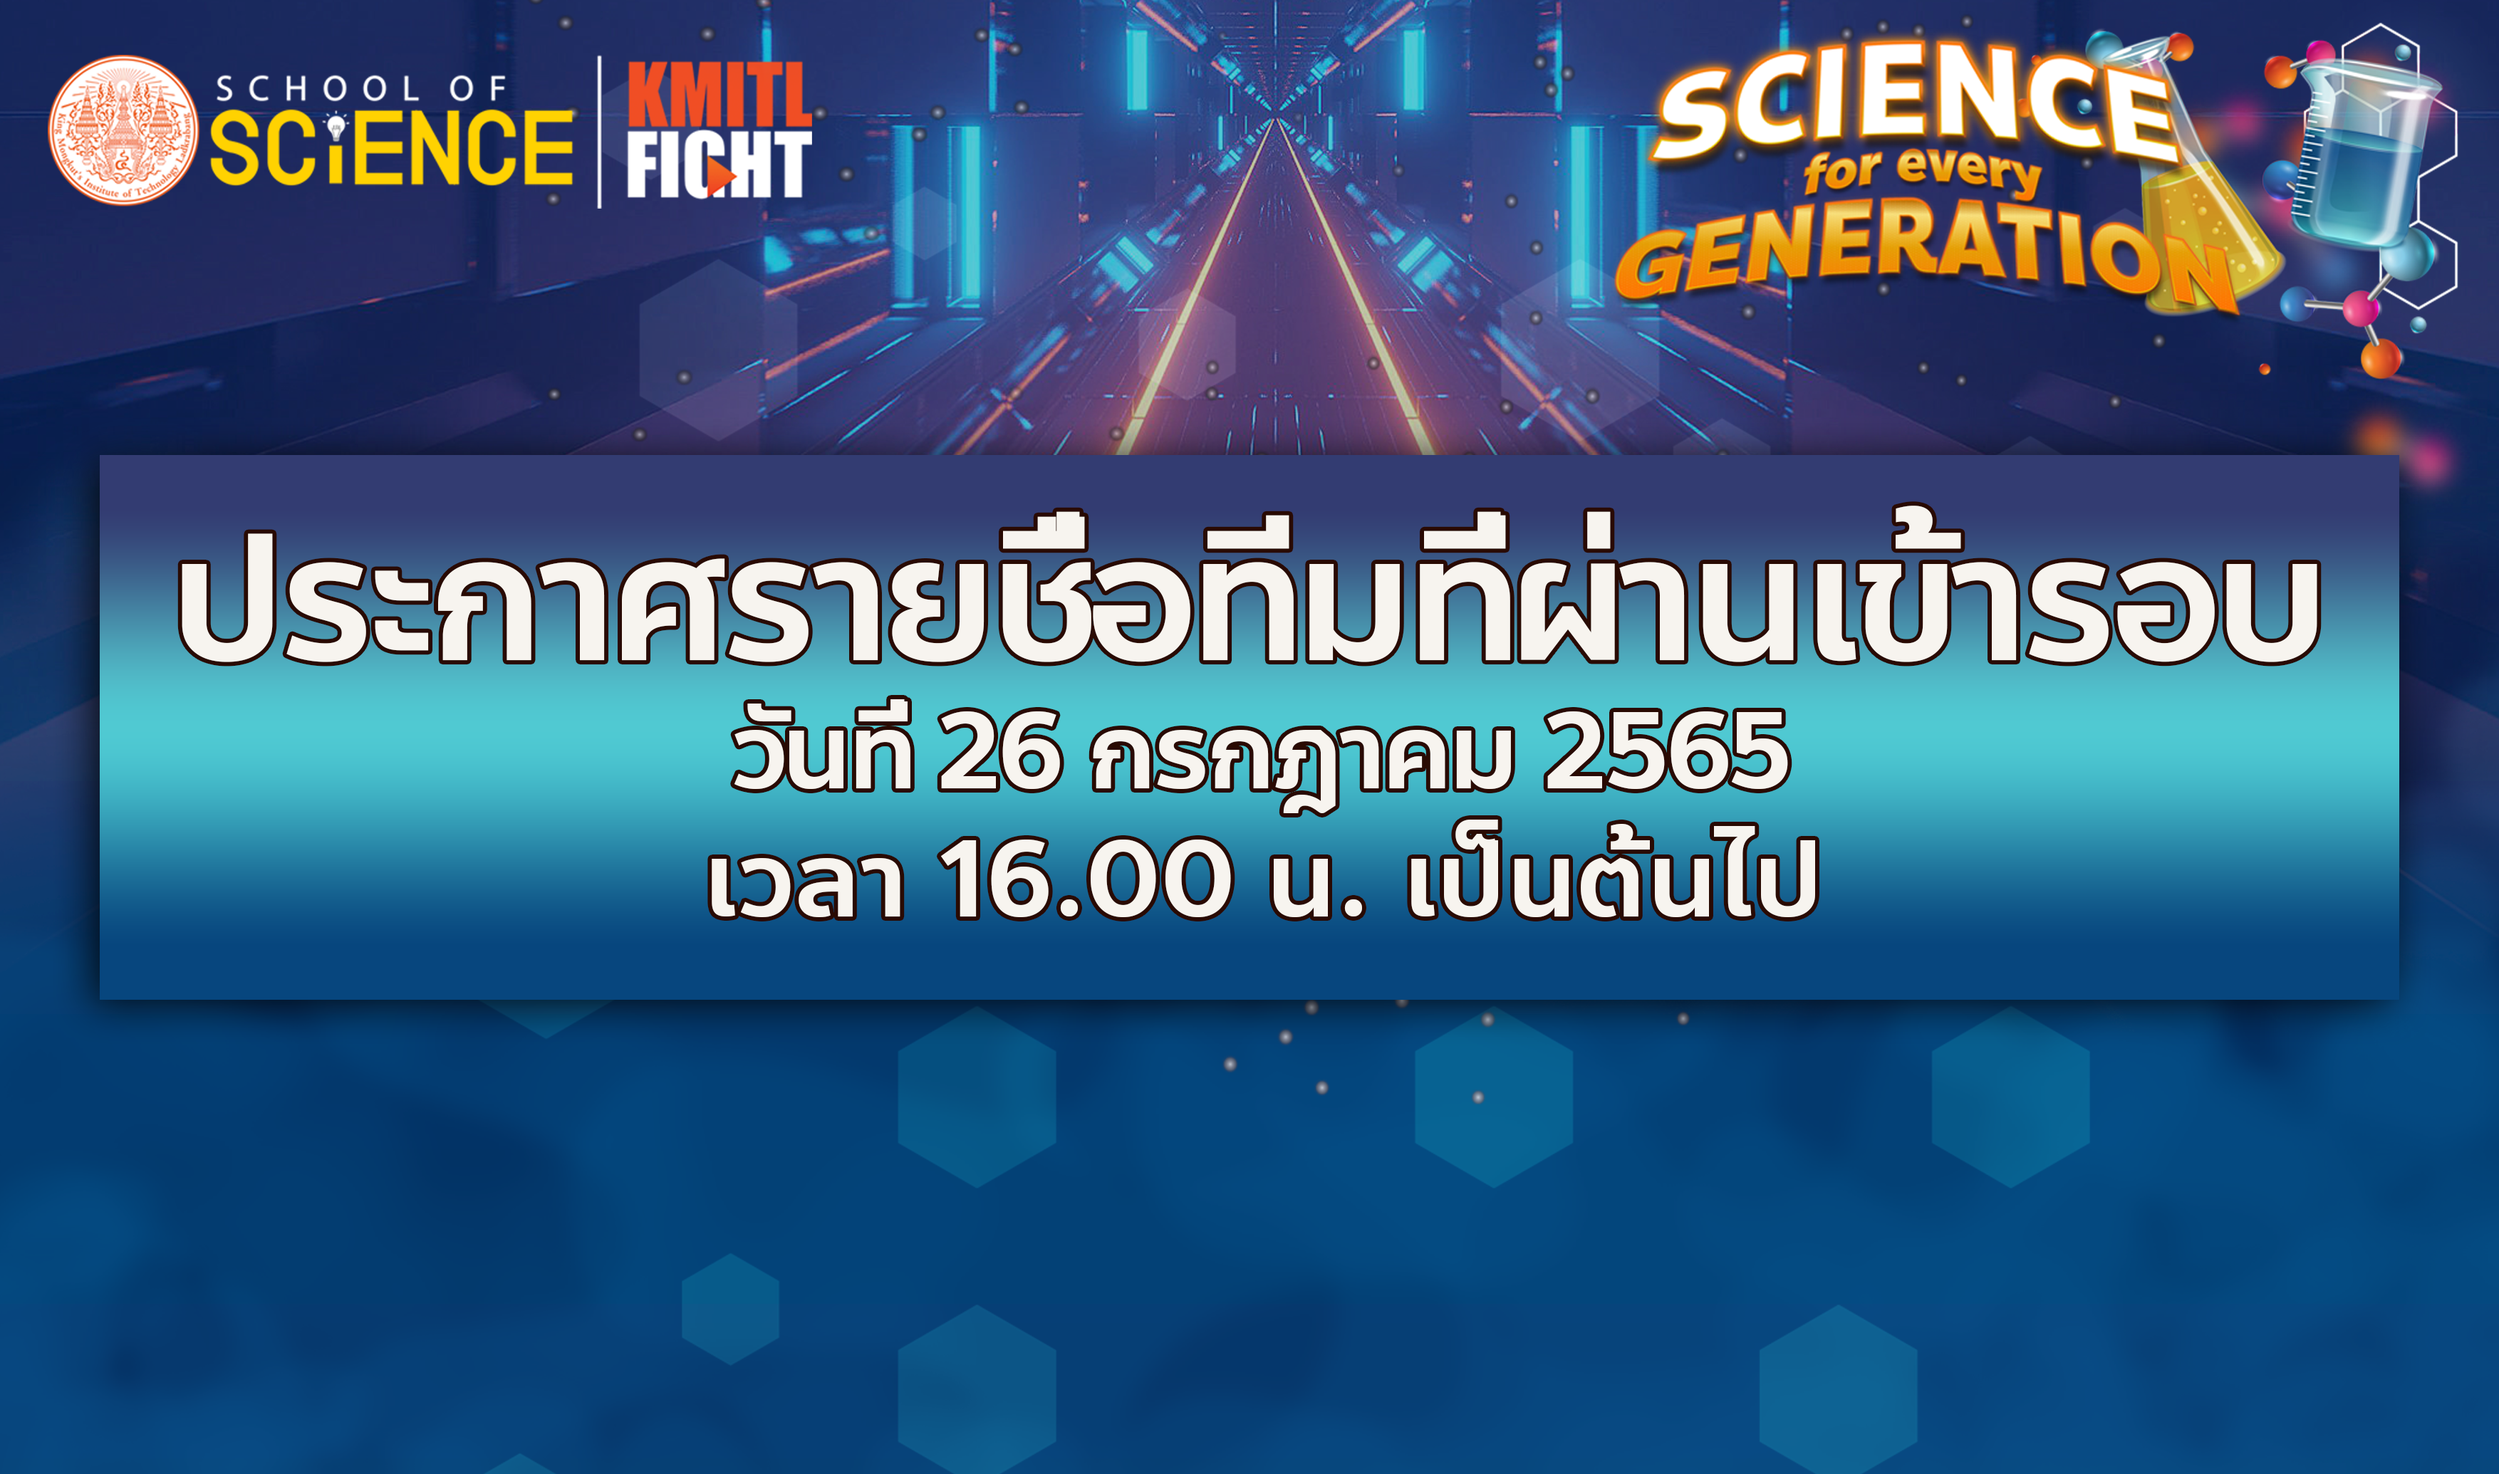
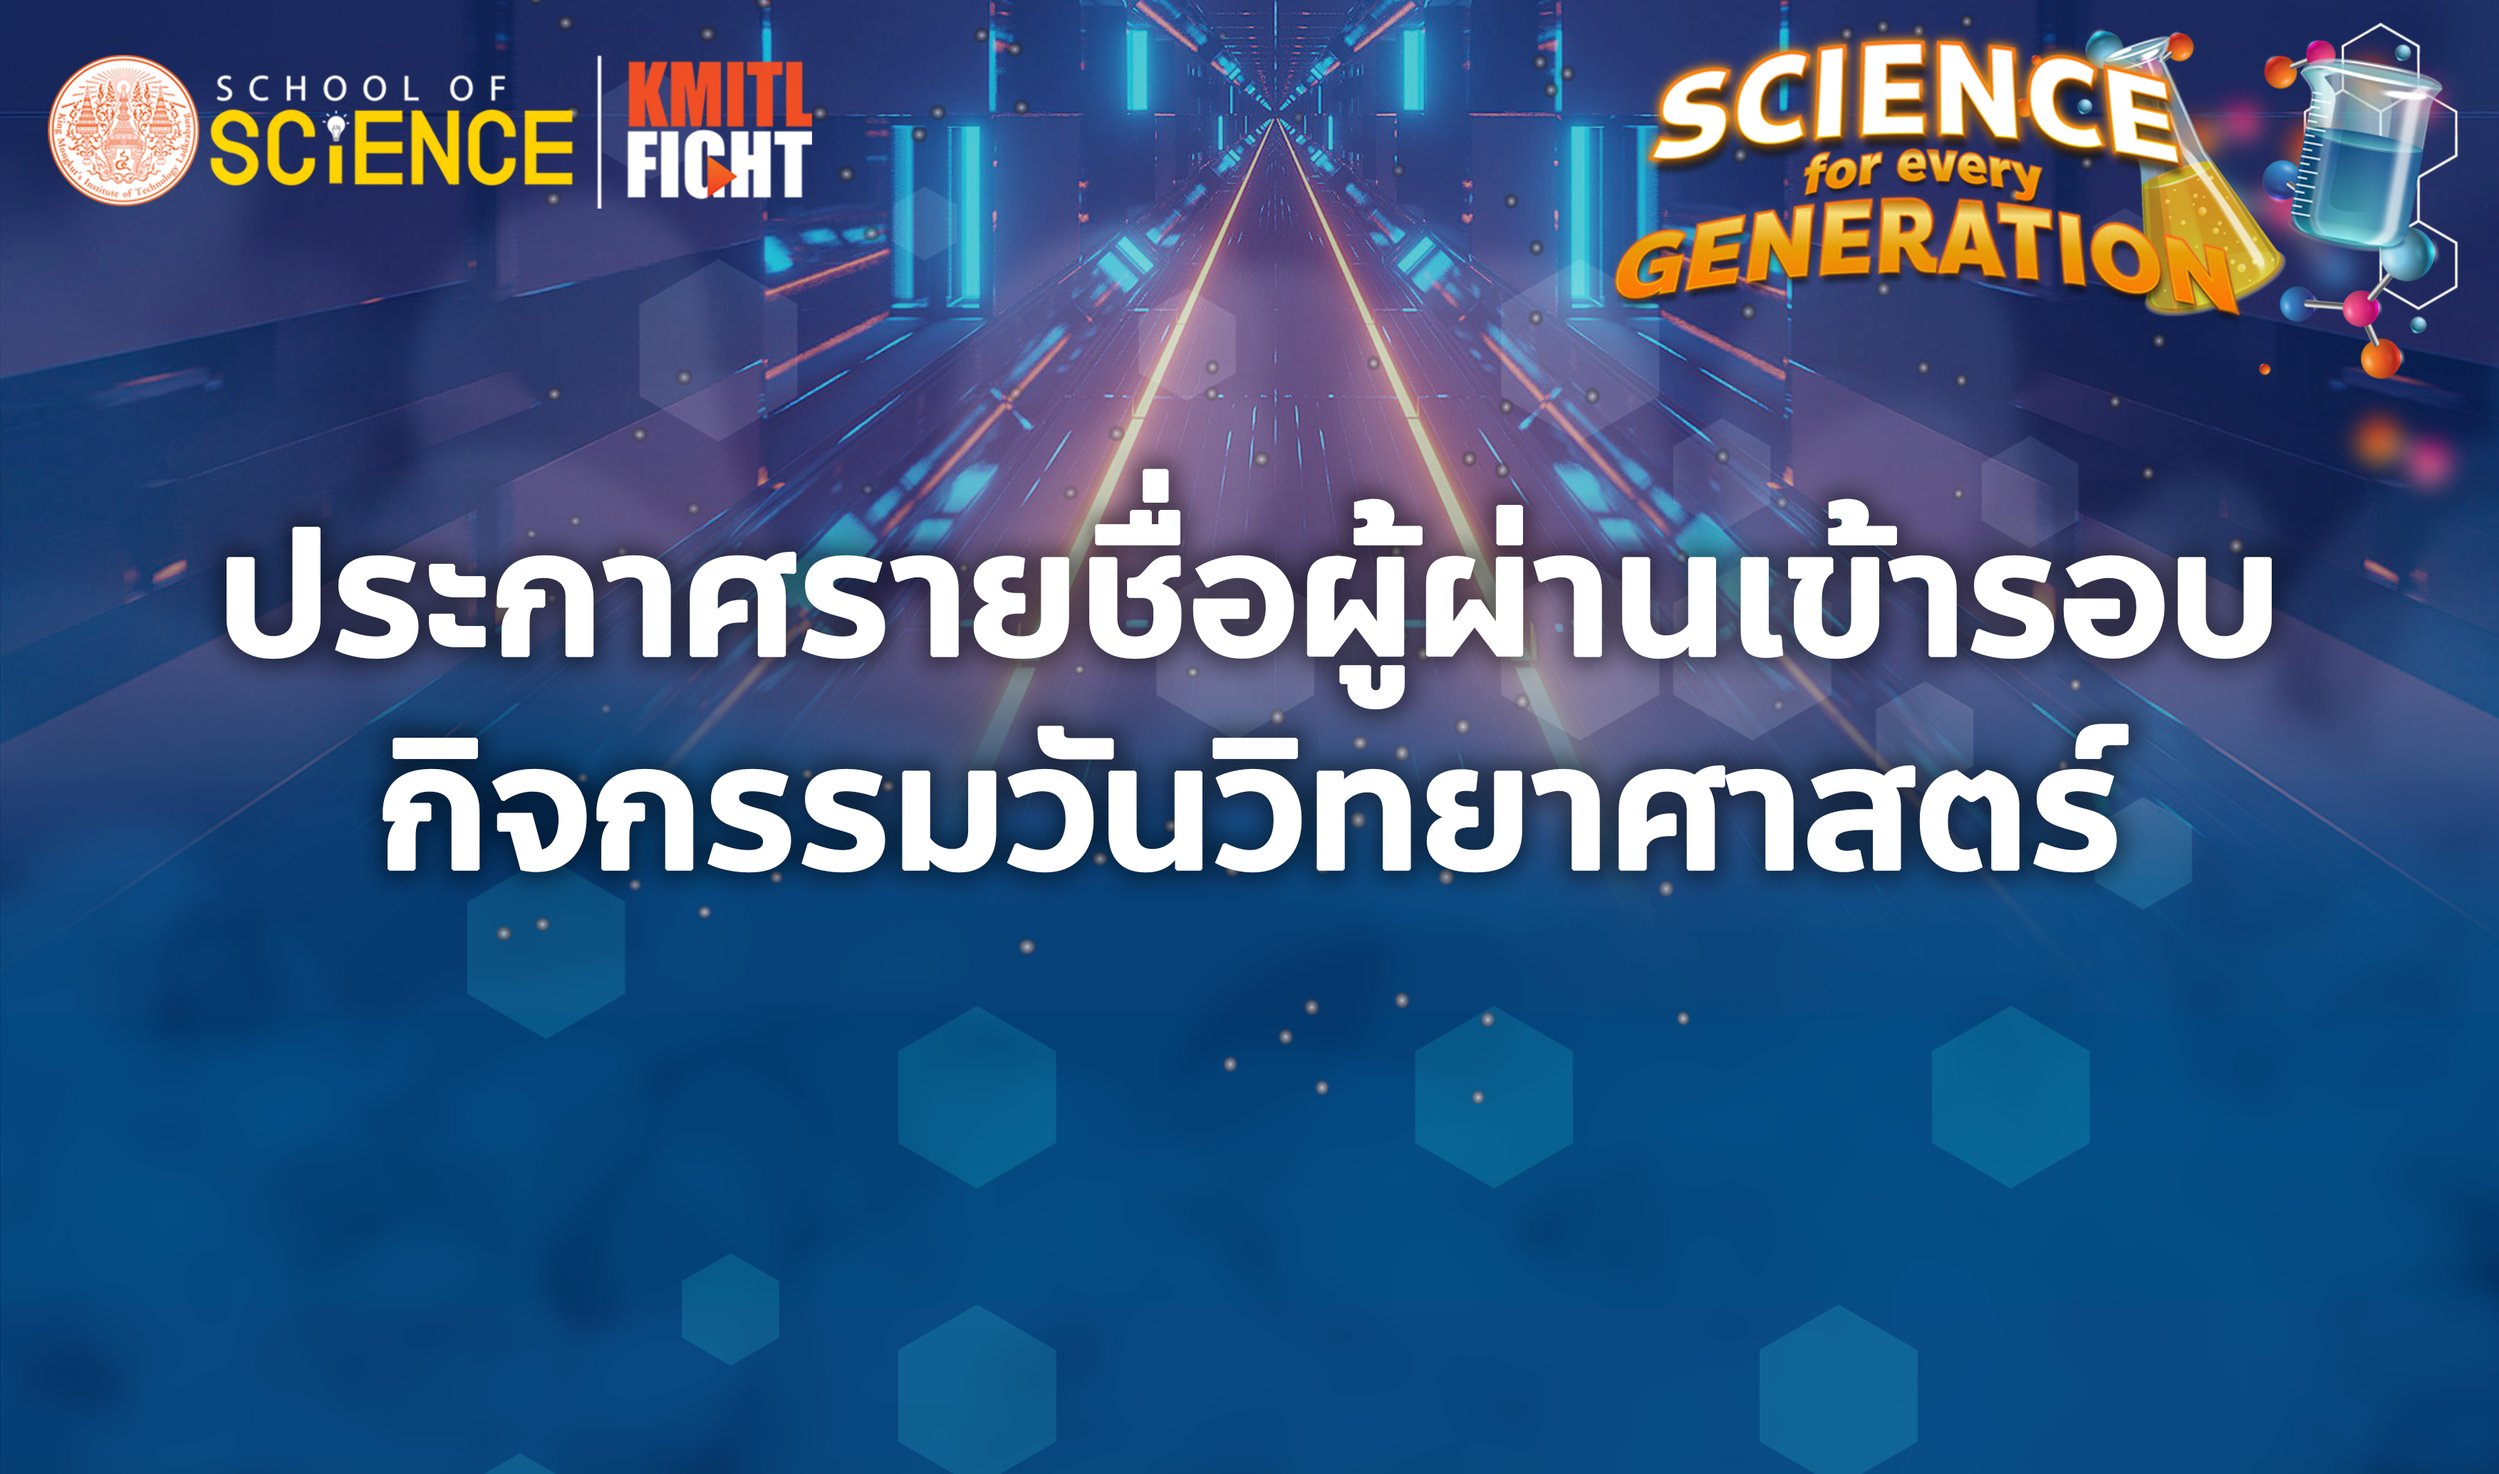
อัพเดทหลังประกาศผล

diff --git a/sciday/pages/index.php b/sciday/pages/index.php
@@ -128,9 +128,9 @@
             </div>
             <div class="card-body">
                 <div class="row row-cols-1 row-cols-md-3 g-4">
-                    <!-- <div class="col">
+                    <div class="col">
                         <div class="card h-100 border-success">
-                            <img src="/science/sciday/images/news04.png" class="card-img-top" alt="...">
+                            <img src="/science/sciday/images/news05.png" class="card-img-top" alt="...">
                             <div class="card-body">
                                 <button type="button" class="btn btn-primary position-relative">
                                     <h5 class="card-title">ประกาศรายชื่อผู้ที่ผ่านเข้ารอบ</h5>
@@ -146,7 +146,7 @@
                                 1. <a href="/science/sciday/pages/artifact.php?activity=MQ==" class="text-primary">การประกวดสิ่งประดิษฐ์ทางวิทยาศาสตร์</a> <br>
                                 2. <a href="/science/sciday/pages/iot.php?activity=Mw==" class="text-primary">การประกวดโครงงาน IoT</a> <br>
                                 3. <a href="/science/sciday/pages/answer.php?activity=NA==" class="text-primary">การแข่งขันตอบปัญหาความรู้ทั่วไปทางวิทยาศาสตร์</a> <br>
-                                4. <a href="/science/sciday/pages/micro.php?activity=Ng==" class="text-primary">การแข่งขัน micro:bit</a> <br>
+                                <!-- 4. <a href="/science/sciday/pages/micro.php?activity=Ng==" class="text-primary">การแข่งขัน micro:bit</a> <br> -->
                                 </p>
                                 
                             </div>
@@ -154,7 +154,7 @@
                                 <small class="text-muted text-end">Post date : 26 ก.ค. 2565</small>
                             </div>
                         </div>
-                    </div> -->
+                    </div>
                     <div class="col">
                         <div class="card h-100 border-success">
                             <img src="/science/sciday/images/news04.png" class="card-img-top" alt="...">

diff --git a/sciday/iot/manage.php b/sciday/iot/manage.php
@@ -97,12 +97,12 @@ use App\Model\Sciday\Teacher;
                                         }
                                         echo "
                                             <tr>
-                                                <td width=''>{$i}.</td>
+                                                <td>{$i}.</td>
                                                 <td>{$project['iot_name']}</td>
-                                                <td width=''>{$project['school']}</td>
-                                                <td width=''>{$st}</td>
-                                                <td width=''>{$tea}</td>
-                                                <td width='' align='center'>
+                                                <td>{$project['school']}</td>
+                                                <td>{$st}</td>
+                                                <td>{$tea}</td>
+                                                <td>
                                                     <div class='form-check'>
                                                         <input class='form-check-input' type='checkbox' value='{$project['id']}' id='flexCheckDefault' name='p_id[]' {$checkbox}>
                                                     </div>

diff --git a/sciday/pages/artifact.php b/sciday/pages/artifact.php
@@ -289,7 +289,7 @@ use App\Model\Sciday\Teacher;
                                         
                                         <?php 
                                             $round2s = $roundObj->getRoundByLevelArtifact($level['id'],2,1);
-                                            $i=0;
+                                            $i2=0;
                                             foreach($round2s AS $round2){
                                                 $stu2s = $studentObj->getStuById($round2['student_id']);
                                                 $teacher2s = $teacherObj->getTeacherById($round2['teacher_id']);
@@ -365,7 +365,7 @@ use App\Model\Sciday\Teacher;
                                         
                                         <?php 
                                             $round3s = $roundObj->getRoundByLevelArtifact($level['id'],3,1);
-                                            $i=0;
+                                            $i3=0;
                                             foreach($round3s AS $round3){
                                                 $stu3s = $studentObj->getStuById($round3['student_id']);
                                                 $teacher3s = $teacherObj->getTeacherById($round3['teacher_id']);

diff --git a/sciday/pages/micro.php b/sciday/pages/micro.php
@@ -282,7 +282,7 @@ use App\Model\Sciday\Teacher;
                                         
                                         <?php 
                                             $round2s = $roundObj->getRoundByLevelMicro($level['id'],2,6);
-                                            $i=0;
+                                            $i2=0;
                                             foreach($round2s AS $round2){
                                                 $stu2s = $studentObj->getStuById($round2['student_id']);
                                                 $teacher2s = $teacherObj->getTeacherById($round2['teacher_id']);
@@ -358,7 +358,7 @@ use App\Model\Sciday\Teacher;
                                         
                                         <?php 
                                             $round3s = $roundObj->getRoundByLevelMicro($level['id'],3,6);
-                                            $i=0;
+                                            $i3=0;
                                             foreach($round3s AS $round3){
                                                 $stu3s = $studentObj->getStuById($round3['student_id']);
                                                 $teacher3s = $teacherObj->getTeacherById($round3['teacher_id']);

diff --git a/sciday/pages/iot.php b/sciday/pages/iot.php
@@ -293,7 +293,7 @@ use App\Model\Sciday\Teacher;
                                         
                                         <?php 
                                             $round2s = $roundObj->getRoundByLevelIot($level['id'],2,3);
-                                            $i=0;
+                                            $i2=0;
                                             foreach($round2s AS $round2){
                                                 $stu2s = $studentObj->getStuById($round2['student_id']);
                                                 $teacher2s = $teacherObj->getTeacherById($round2['teacher_id']);
@@ -369,7 +369,7 @@ use App\Model\Sciday\Teacher;
                                         
                                         <?php 
                                             $round3s = $roundObj->getRoundByLevelIot($level['id'],3,3);
-                                            $i=0;
+                                            $i3=0;
                                             foreach($round3s AS $round3){
                                                 $stu3s = $studentObj->getStuById($round3['student_id']);
                                                 $teacher3s = $teacherObj->getTeacherById($round3['teacher_id']);

diff --git a/sciday/pages/project.php b/sciday/pages/project.php
@@ -285,7 +285,7 @@ use App\Model\Sciday\Showround;
                                         
                                         <?php 
                                             $round2s = $roundObj->getRound2ByLevel($level['id']);
-                                            $i=0;
+                                            $i2=0;
                                             foreach($round2s AS $round2){
                                                 $stu2s = $studentObj->getStuById($round2['student_id']);
                                                 $teacher2s = $teacherObj->getTeacherById($round2['teacher_id']);
@@ -362,7 +362,7 @@ use App\Model\Sciday\Showround;
                                         
                                         <?php 
                                             $round3s = $roundObj->getRound3ByLevel($level['id']);
-                                            $i=0;
+                                            $i3=0;
                                             foreach($round3s AS $round3){
                                                 $stu3s = $studentObj->getStuById($round3['student_id']);
                                                 $teacher3s = $teacherObj->getTeacherById($round3['teacher_id']);

diff --git a/sciday/pages/answer.php b/sciday/pages/answer.php
@@ -203,7 +203,7 @@ use App\Model\Sciday\Teacher;
                                     
                                     <?php 
                                         $round2s = $roundObj->getRoundByLevelAnswer($level['id'],2,4);
-                                        $i=0;
+                                        $i2=0;
                                         foreach($round2s AS $round2){
                                             $stu2s = $studentObj->getStuById($round2['student_id']);
                                             $teacher2s = $teacherObj->getTeacherById($round2['teacher_id']);
@@ -284,7 +284,7 @@ use App\Model\Sciday\Teacher;
                                     
                                     <?php 
                                         $round3s = $roundObj->getRoundByLevelAnswer($level['id'],3,4);
-                                        $i=0;
+                                        $i3=0;
                                         foreach($round3s AS $round3){
                                             $stu3s = $studentObj->getStuById($round3['student_id']);
                                             $teacher3s = $teacherObj->getTeacherById($round3['teacher_id']);
